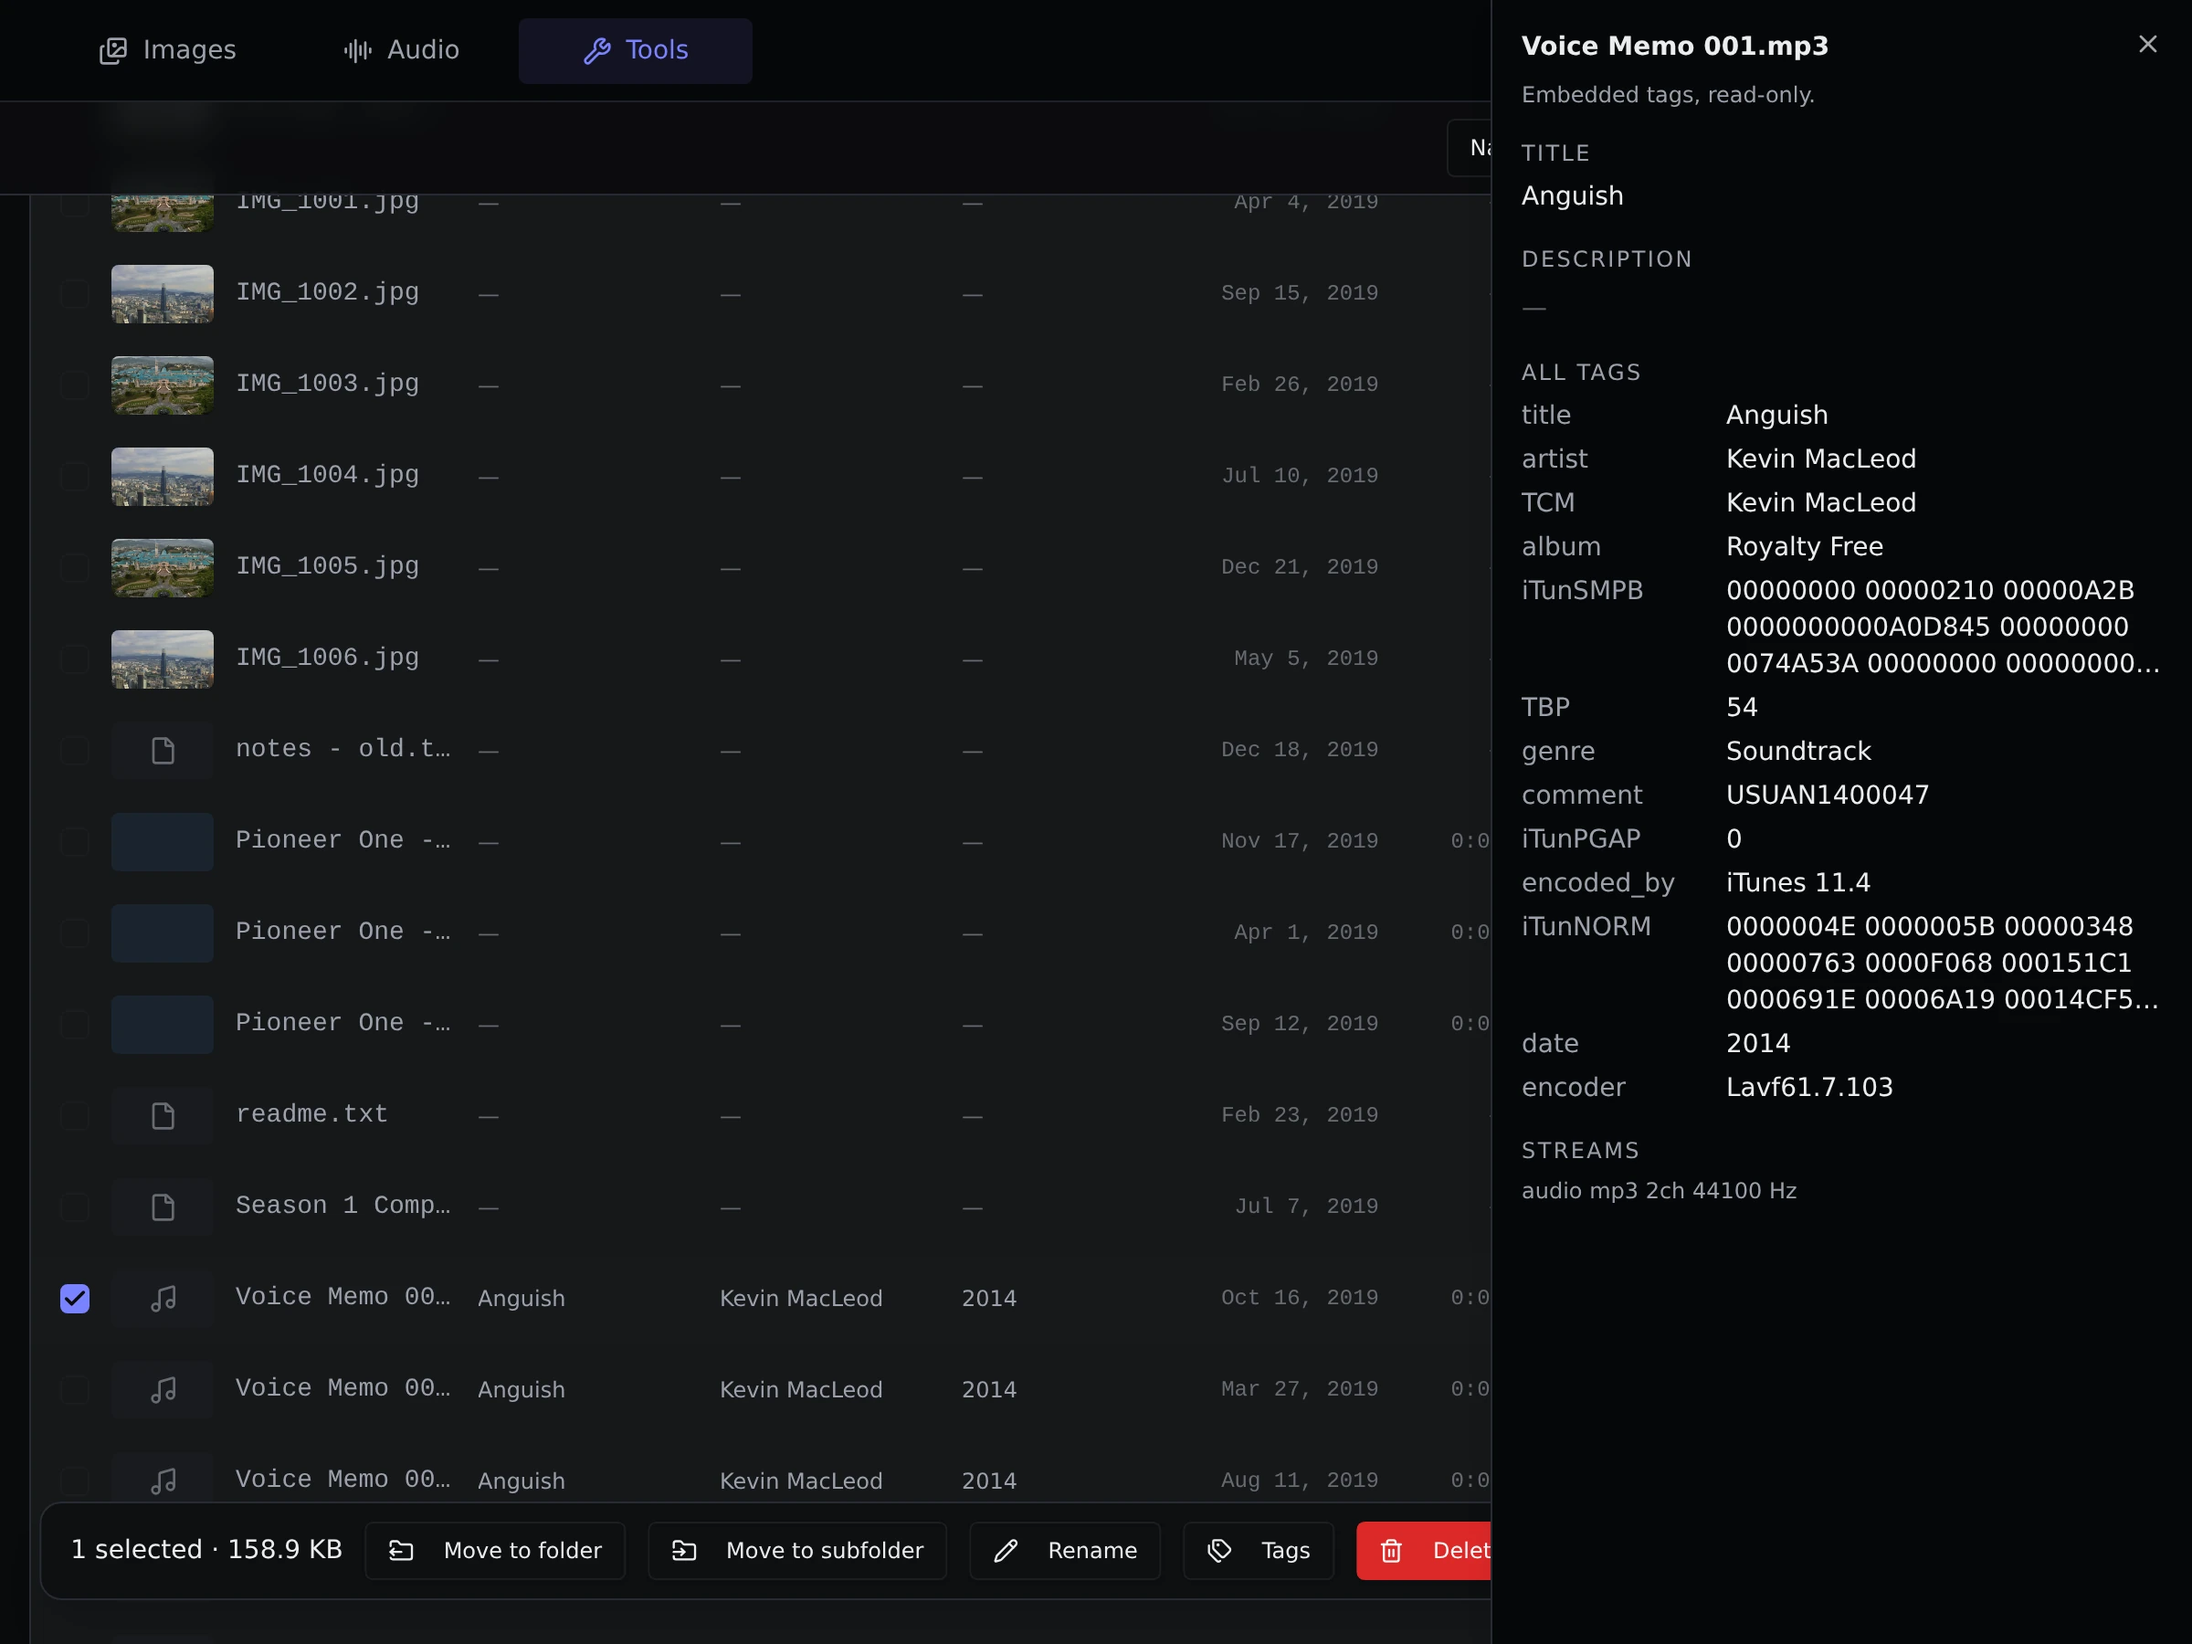
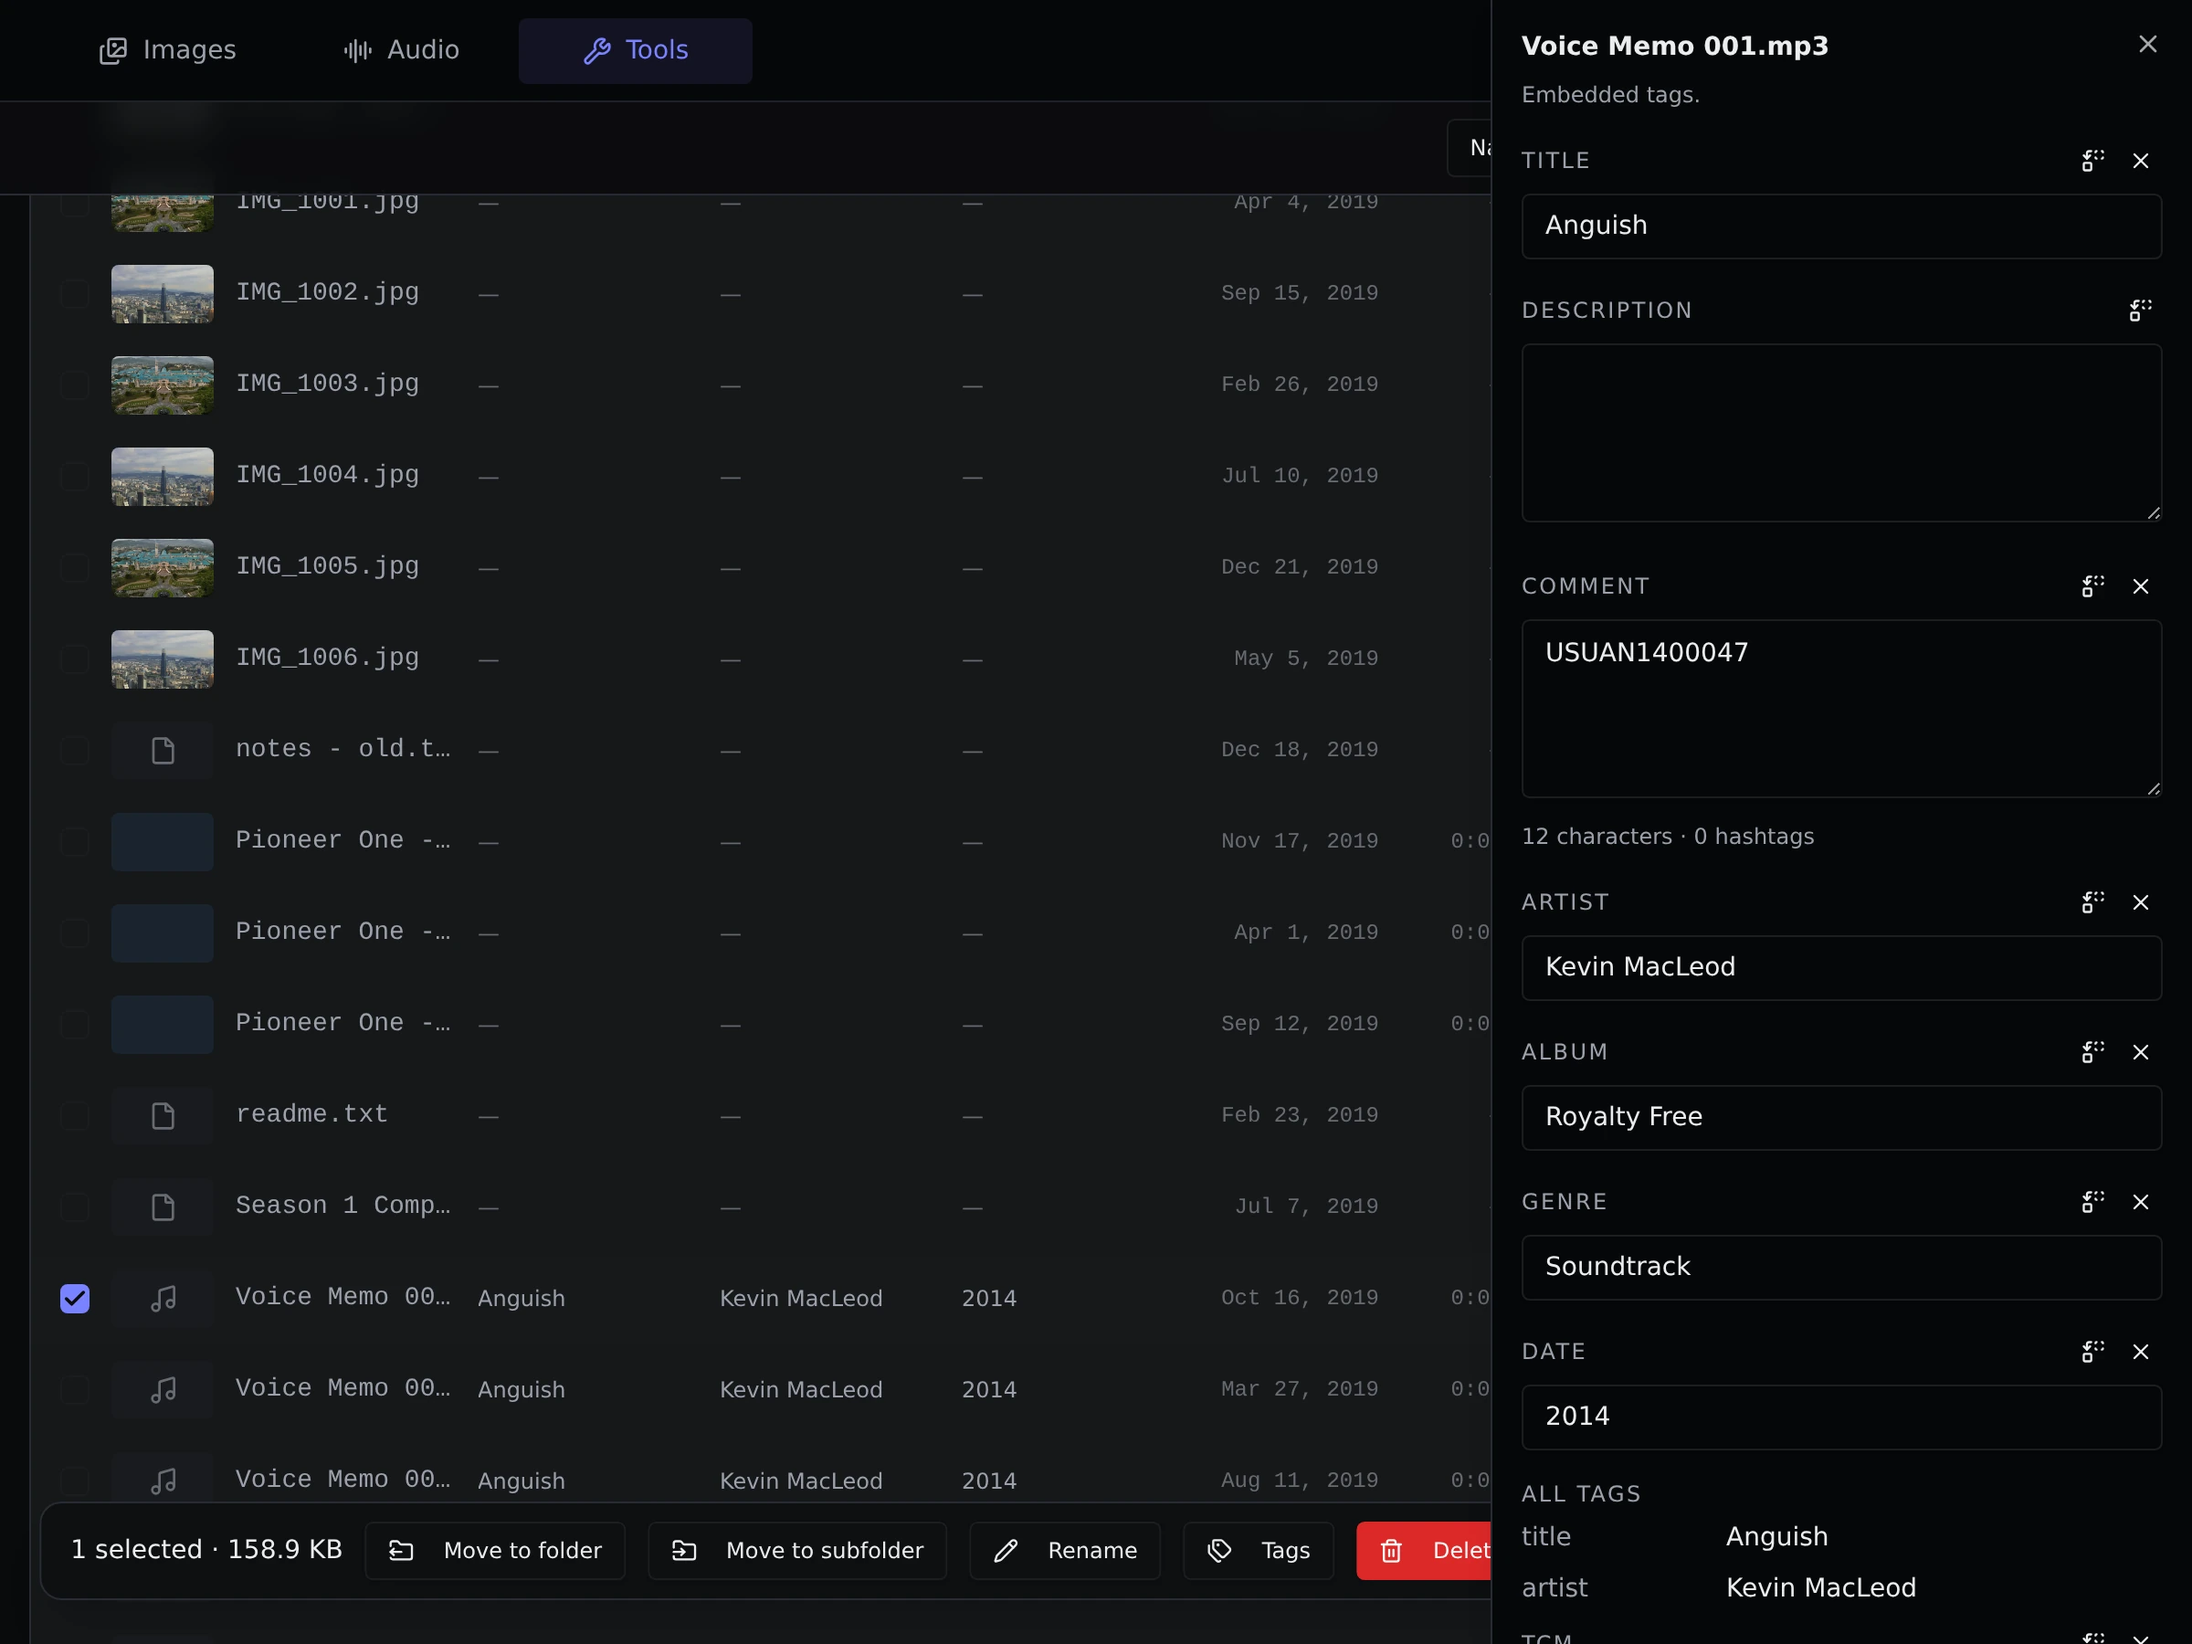
docs(organize): document editing tags and add the shots

diff --git a/site/lib/features.ts b/site/lib/features.ts
@@ -95,7 +95,7 @@ export const FEATURE_GROUPS: FeatureGroup[] = [
         href: "/docs/tools/organize",
         title: "Organize",
         summary:
-          "Look inside any folder, read the tags inside the files, then move, rename or delete them in a few clicks.",
+          "Look inside any folder, read and fix the tags inside the files, then move, rename or delete them in a few clicks.",
       },
       {
         href: "/docs/features/toolbox",
